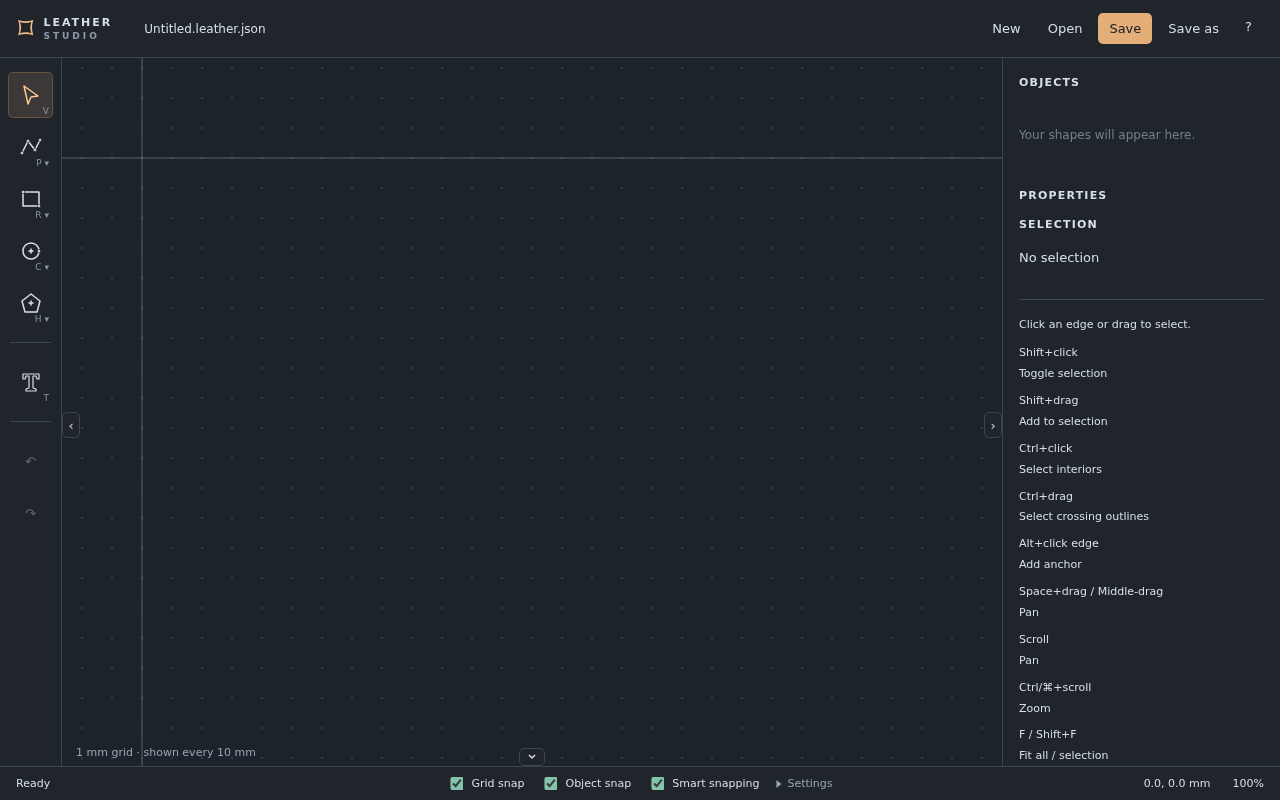
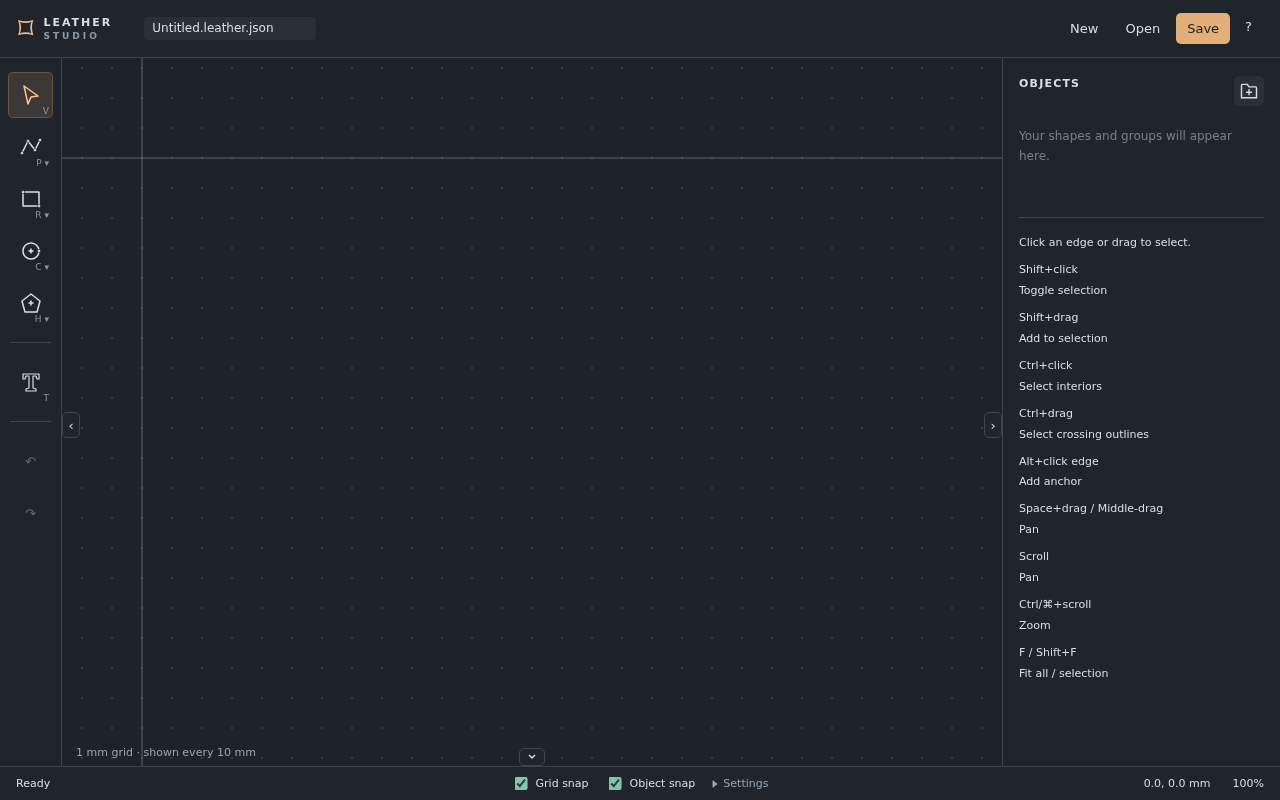
Hide properties when nothing is selected

diff --git a/tests/hints.spec.ts b/tests/hints.spec.ts
@@ -1,4 +1,27 @@
 import { test, expect } from "@playwright/test";
+test("properties follows the selection", async ({ page }, info) => {
+  await page.goto("/");
+  const rectangle = page.getByRole("button", { name: "Rectangle (R)", exact: true });
+  await expect(rectangle).toBeEnabled();
+  const properties = page.getByRole("heading", { name: "Properties", exact: true });
+  await expect(properties).toHaveCount(0);
+  await expect(page.locator(".object-properties")).toHaveCount(0);
+  await page.screenshot({ path: info.outputPath("empty-canvas.png") });
+  await rectangle.click();
+  const canvas = page.getByLabel("Pattern drawing canvas");
+  await canvas.click({ position: { x: 150, y: 180 } });
+  await canvas.click({ position: { x: 300, y: 280 } });
+  await expect(properties).toBeVisible();
+  await expect(page.locator(".object-properties")).toBeVisible();
+  await canvas.focus();
+  await page.keyboard.press("Escape");
+  await canvas.click({ position: { x: 450, y: 380 } });
+  await expect(properties).toHaveCount(0);
+  await expect(page.locator(".object-properties")).toHaveCount(0);
+  await expect(page.locator("aside .inspector-hint")).toBeVisible();
+  await page.screenshot({ path: info.outputPath("no-selection-properties.png") });
+});
+
 test("inspector owns contextual guidance", async ({ page }, info) => {
   await page.goto("/");
   const canvas = page.getByLabel("Pattern drawing canvas");

diff --git a/src/vue/App.vue b/src/vue/App.vue
@@ -260,9 +260,11 @@ onMounted(() => {
       </div>
       <aside v-if="panel">
         <ObjectPanel />
-        <hr class="sidebar-separator" />
-        <h2>Properties</h2>
-        <Inspector />
+        <template v-if="e.active.length">
+          <hr class="sidebar-separator" />
+          <h2>Properties</h2>
+          <Inspector />
+        </template>
         <div class="inspector-hint">
           <p>{{ hint.action }}</p>
           <dl>

diff --git a/docs/manual/workspace.md b/docs/manual/workspace.md
@@ -4,7 +4,7 @@ The left toolbar selects drawing modes. Right-click or hold a grouped tool to op
 
 Objects lists your shapes. Click to select; Shift+click toggles selection. Double-click an object name or press F2 while its row is focused to rename it. Enter applies; Esc cancels.
 
-Properties edits the selection. Enter or leaving a field applies one undo step; Esc restores its starting value. Inline hints below Properties explain the current operation.
+Properties appears when objects are selected and hides when nothing is selected. Enter or leaving a field applies one undo step; Esc restores its starting value. Inline hints in the sidebar explain the current operation, including when nothing is selected.
 
 Edge tabs hide or show tools, Properties, and the status bar. Settings controls rulers, grid style, spacing, and theme.
 
